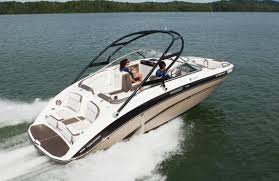
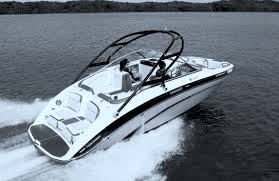
changed the image color to black and white

diff --git a/app/assets/stylesheets/pages/_usershow.scss b/app/assets/stylesheets/pages/_usershow.scss
@@ -19,3 +19,6 @@ ul {
   list-style-type: none;
 }
 
+.body {
+  background-color: #6895a5
+}
